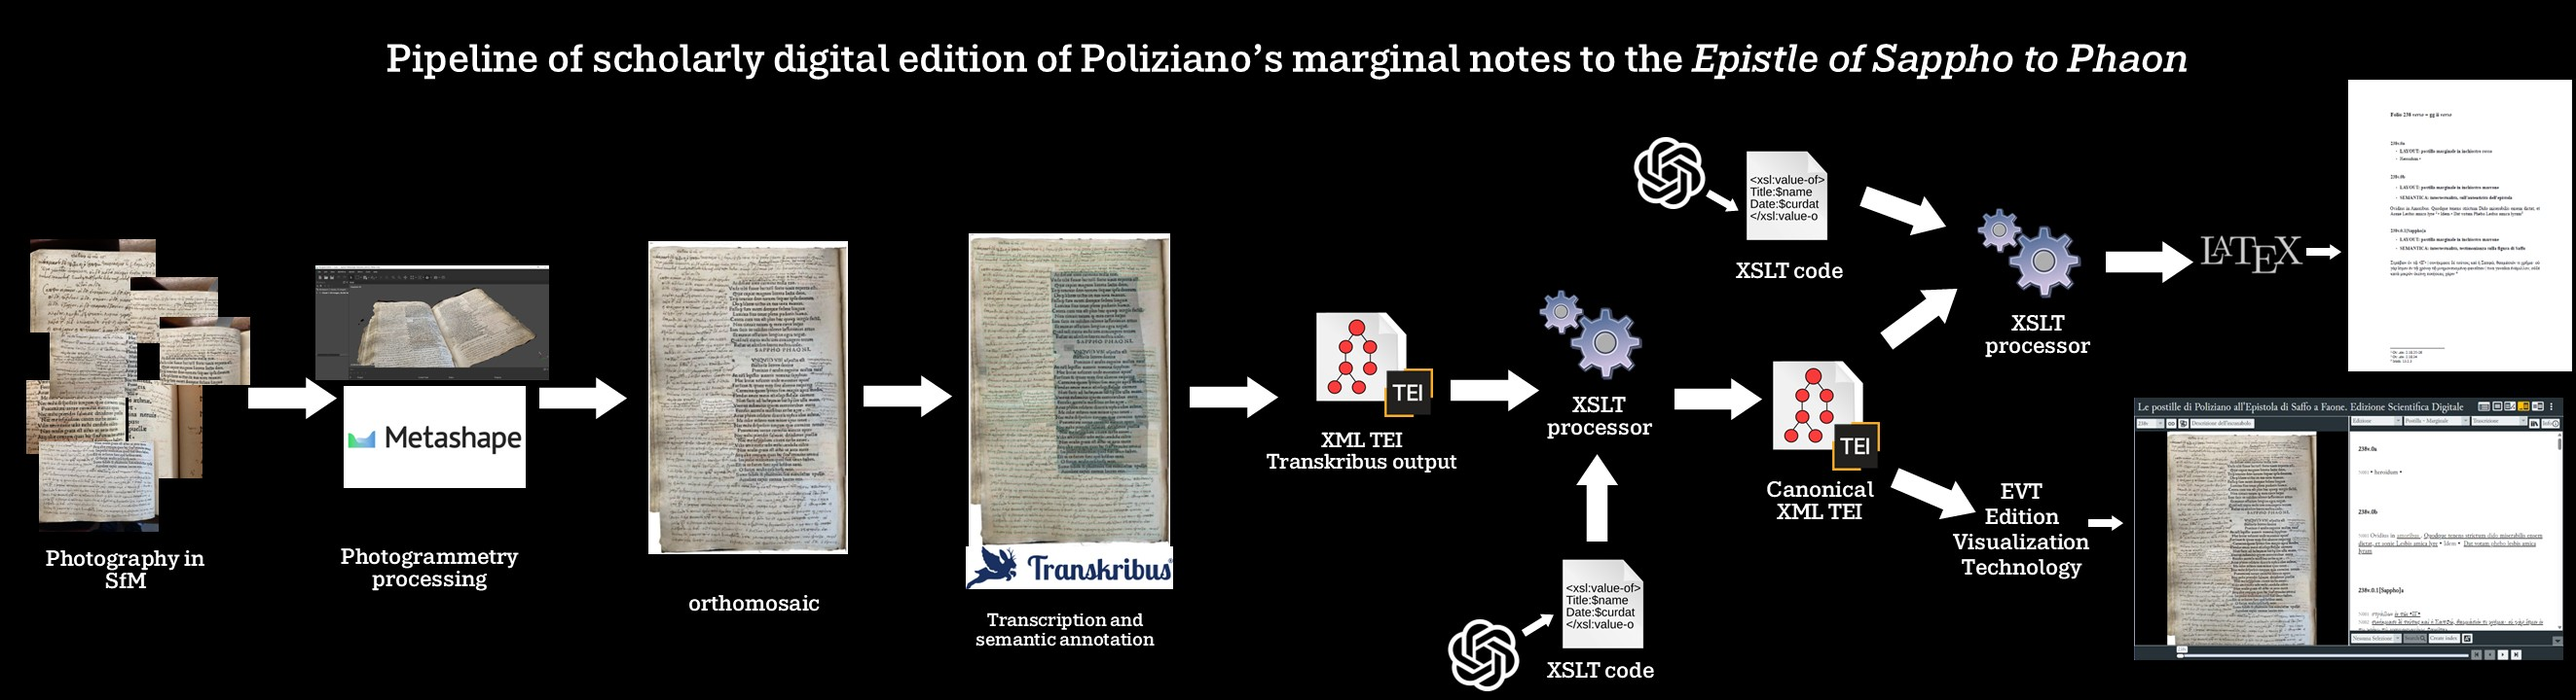
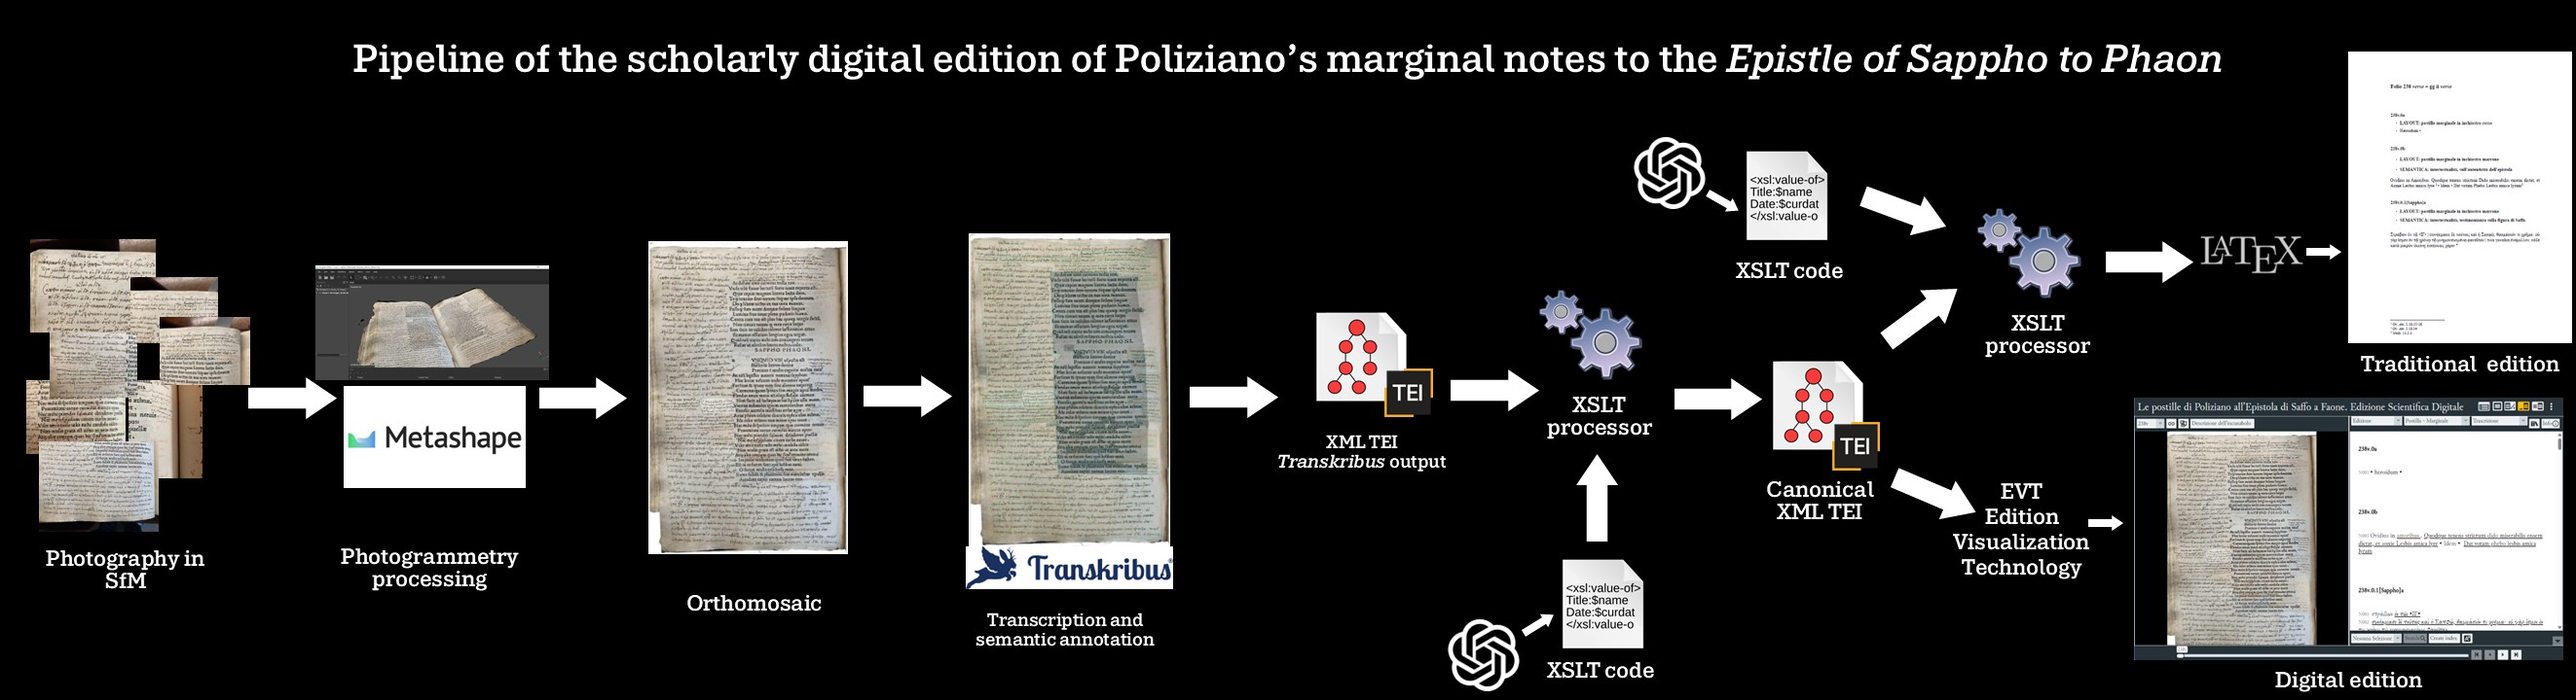
pipeline

diff --git a/Pipeline-XSLT/README.md b/Pipeline-XSLT/README.md
@@ -5,6 +5,6 @@ I followed these passages for the developing of the XML TEI encoding of the text
 2. I exported the TEI output of my work from *Transkribus* platform. 
 3. I transformed the Transkribus TEI output in a regular TEI XML (according to the most updated guidelines) in compliance with the EVT standards (using XSLT from `./XSLT/01-regularize_TEI.xsl`to `.XSLT/05-regularize_ref_cit.xsl`)
 4. I manually editing the encoding also adding new information.
-5. I exported a LaTEX file from TEI XML encoding (using XSLT `06-LaTEX_export.xsl`).
+5. I exported a LaTeX file from TEI XML encoding (using XSLT `06-LaTEX_export.xsl`).
 
-![alt text](Pipeline_SDEES.jpg)
+![Pipeline of SDE of the Epistle of Sappho to Phaon](Pipeline_SDEES.jpg)
